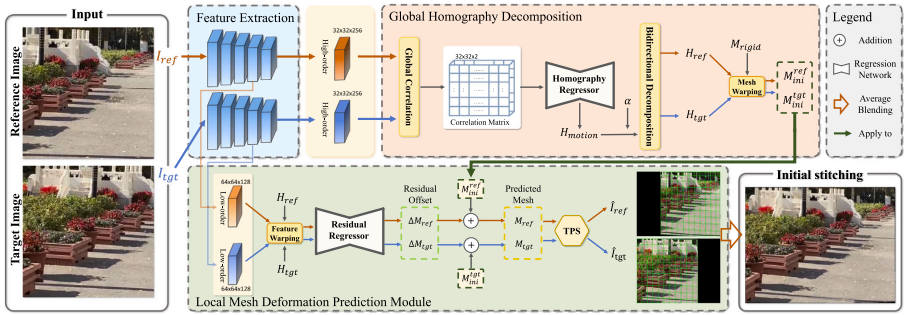
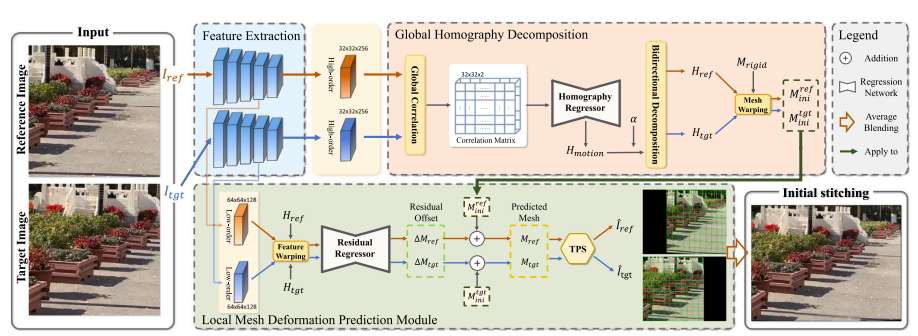
Update BRecStitch source code and differentiable loss implementation

diff --git a/_pages/about.md b/_pages/about.md
@@ -78,7 +78,7 @@ This work defines Plant Agnostic Counting, a task focusing on zero-shot generali
 Yun Zhang, Jialing Yang, Ruiyang Liang, Yao Xu, Lang Nie, **Jinyu Xu**, Fang-Lue Zhang, Xinyuan Zheng \\
 <span style="background-color: #fff9c4; color: #333; padding: 2px 8px; border-radius: 6px; font-weight: bold;">Computers & Graphics 2026</span> \\
 [**Paper**](https://www.sciencedirect.com/science/article/abs/pii/S0097849326000865) | [**Code**](https://github.com/Jialing25y/BRecStitch) \\
-This work proposes BRecStitch, the first end-to-end unsupervised network that incorporates boundary rectification into image stitching. By leveraging bidirectional warping and a novel differentiable boundary loss, it achieves a superior balance between content alignment and rectangular boundary regularity.
+BRecStitch introduces the first end-to-end unsupervised framework for image stitching and rectification, balancing alignment and regularity via bidirectional warping and a differentiable boundary loss.
 </div>
 </div>
 
